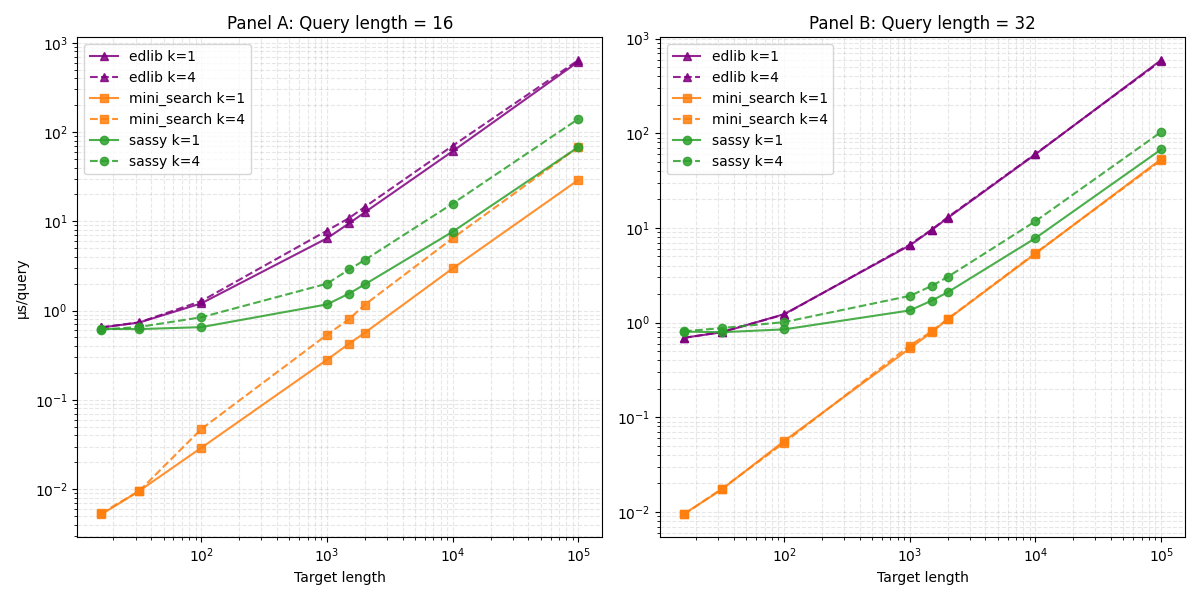
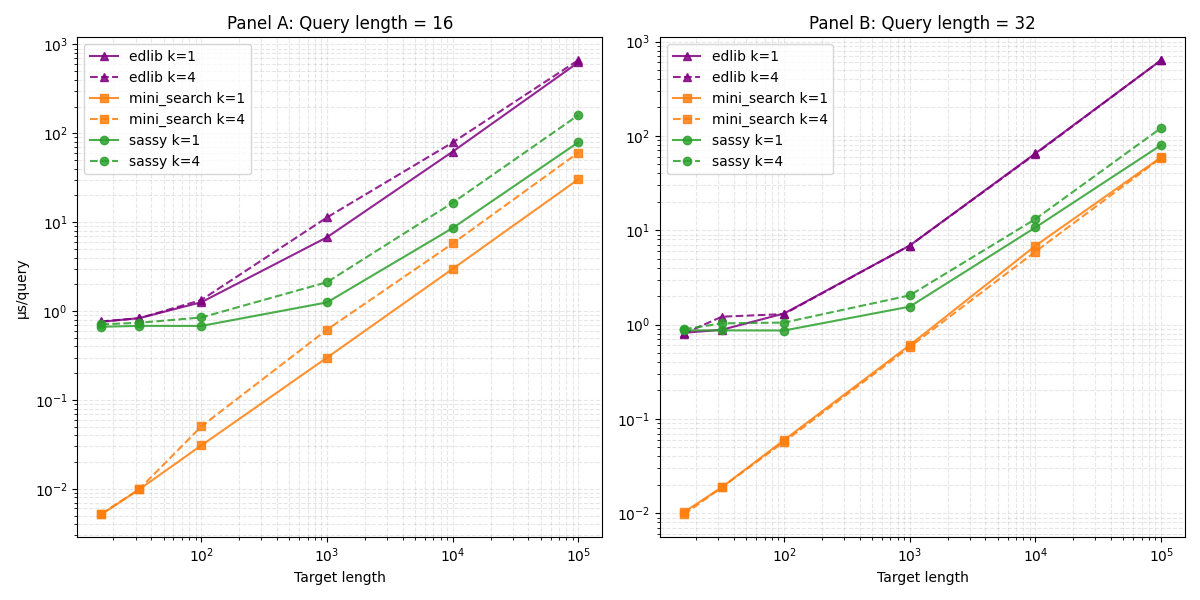
micro stuff ~20% gain

diff --git a/src/search.rs b/src/search.rs
@@ -1,7 +1,21 @@
+use crate::backend::SimdBackend;
 use crate::iupac::get_encoded;
 use crate::tqueries::TQueries;
-use crate::{backend::SimdBackend, tqueries};
 use pa_types::{Cigar, CigarOp, Cost};
+
+#[cfg(target_arch = "x86_64")]
+use std::arch::x86_64::_mm_prefetch;
+
+/// Prefetch hint for temporal data (keep in cache)
+#[cfg(target_arch = "x86_64")]
+#[inline(always)]
+unsafe fn prefetch_read<T>(ptr: *const T) {
+    _mm_prefetch(ptr as *const i8, std::arch::x86_64::_MM_HINT_T0);
+}
+
+#[cfg(not(target_arch = "x86_64"))]
+#[inline(always)]
+unsafe fn prefetch_read<T>(_ptr: *const T) {}
 
 #[derive(Clone, Copy, Default)]
 struct BlockState<S: Copy> {
@@ -134,11 +148,10 @@ impl<B: SimdBackend> Searcher<B> {
         vn: B::Simd,
         cost: B::Simd,
         eq: B::Simd,
+        all_ones: B::Simd,
         last_bit_shift: u32,
         last_bit_mask: B::Simd,
     ) -> (B::Simd, B::Simd, B::Simd) {
-        let all_ones = B::splat_all_ones();
-
         let eq_and_pv = eq & vp;
         let xh = ((eq_and_pv + vp) ^ vp) | eq;
         let mh = vp & xh;
@@ -174,52 +187,62 @@ impl<B: SimdBackend> Searcher<B> {
         self.reset_state(t_queries, alpha_pattern);
         self.search_hits.clear();
 
-        for pos_vec in self.positions.iter_mut().take(t_queries.n_queries) {
-            pos_vec.clear();
-        }
-
         let k_simd = B::splat_scalar(B::scalar_from_i64(k as i64));
         let last_bit_shift = (t_queries.query_length - 1) as u32;
         let last_bit_mask = B::splat_one() << last_bit_shift;
+        let all_ones = B::splat_all_ones();
 
         let peqs_ptr: *const <B as SimdBackend>::Simd = t_queries.peqs.as_ptr();
         let blocks_ptr = self.blocks.as_mut_ptr();
-        let zero_scalar = B::scalar_from_i64(0);
+        let n_queries = t_queries.n_queries;
 
-        for (idx, &c) in text.iter().enumerate() {
+        let text_ptr = text.as_ptr();
+        let text_len = text.len();
+
+        for idx in 0..text_len {
+            let c = unsafe { *text_ptr.add(idx) };
             let encoded = get_encoded(c) as usize;
-            let peq_block_start_index = encoded * num_blocks;
+            let peq_base = unsafe { peqs_ptr.add(encoded * num_blocks) };
+
+            // Prefetch next character's peq
+            if idx + 1 < text_len {
+                let next_c = unsafe { *text_ptr.add(idx + 1) };
+                let next_encoded = get_encoded(next_c) as usize;
+                unsafe { prefetch_read(peqs_ptr.add(next_encoded * num_blocks)) };
+            }
 
             for block_i in 0..num_blocks {
                 unsafe {
-                    let eq = *peqs_ptr.add(peq_block_start_index + block_i);
+                    let eq = *peq_base.add(block_i);
                     let block = &mut *blocks_ptr.add(block_i);
                     let (vp_out, vn_out, cost_out) = Self::myers_step(
                         block.vp,
                         block.vn,
                         block.cost,
                         eq,
+                        all_ones,
                         last_bit_shift,
                         last_bit_mask,
                     );
                     block.vp = vp_out;
                     block.vn = vn_out;
                     block.cost = cost_out;
-                    let gt_mask = B::simd_gt(cost_out, k_simd);
-                    if gt_mask != B::splat_all_ones() {
-                        let mask_arr = B::to_array(gt_mask);
-                        let mask_slice = mask_arr.as_ref();
 
-                        for (lane_idx, &val) in mask_slice.iter().enumerate() {
-                            if val == zero_scalar {
-                                let query_idx = block_i * B::LANES + lane_idx;
-                                if query_idx < t_queries.n_queries {
-                                    self.search_hits.push(SearchHit {
-                                        query_idx,
-                                        end_position: idx,
-                                    });
-                                }
+                    let gt_mask = B::simd_gt(cost_out, k_simd);
+                    if gt_mask != all_ones {
+                        let hit_bits = B::lanes_with_zero(gt_mask);
+                        let base_query_idx = block_i * B::LANES;
+                        let mut bits = hit_bits;
+                        while bits != 0 {
+                            let lane_idx = bits.trailing_zeros() as usize;
+                            let query_idx = base_query_idx + lane_idx;
+                            if query_idx < n_queries {
+                                self.search_hits.push(SearchHit {
+                                    query_idx,
+                                    end_position: idx,
+                                });
                             }
+                            bits &= bits - 1;
                         }
                     }
                 }
@@ -228,7 +251,7 @@ impl<B: SimdBackend> Searcher<B> {
 
         // Handle suffix overhang
         if self.alpha_pattern != !0 {
-            let eq = B::splat_all_ones();
+            let eq = all_ones;
             let steps_needed = t_queries.query_length;
             let blocks_ptr = self.blocks.as_mut_ptr();
             let mut current_text_pos = text.len();
@@ -242,6 +265,7 @@ impl<B: SimdBackend> Searcher<B> {
                             block.vn,
                             block.cost,
                             eq,
+                            all_ones,
                             last_bit_shift,
                             last_bit_mask,
                         );
@@ -305,8 +329,10 @@ impl<B: SimdBackend> Searcher<B> {
         let num_blocks = 1; // Just one block now which we check in assert
         self.ensure_capacity(num_blocks, batch_size);
 
+        let expected_steps = t_queries.query_length + k as usize + 2;
         for i in 0..batch_size {
             self.history[i].steps.clear();
+            self.history[i].steps.reserve(expected_steps);
         }
 
         let length_mask = (!0u64) >> (64usize.saturating_sub(t_queries.query_length));
@@ -364,6 +390,7 @@ impl<B: SimdBackend> Searcher<B> {
                     block.vn,
                     block.cost,
                     eq,
+                    all_ones,
                     last_bit_shift,
                     last_bit_mask,
                 );
@@ -397,16 +424,17 @@ impl<B: SimdBackend> Searcher<B> {
         // NOTE: in search we do correct the cost here based on overhang cost, but we don't mutate vn,vp.
         // so in the trace these would show as regular matches we handled that later in `traceback_single`
         if self.alpha_pattern != !0 {
-            let eq = B::splat_all_ones();
+            let eq = all_ones;
             let blocks_ptr = self.blocks.as_mut_ptr();
-            for i in 0..t_queries.query_length {
+            for _i in 0..t_queries.query_length {
                 unsafe {
                     let block = &mut *blocks_ptr;
-                    let (vp_out, vn_out, cost_out) = Self::myers_step(
+                    let (vp_out, vn_out, _cost_out) = Self::myers_step(
                         block.vp,
                         block.vn,
                         block.cost,
                         eq,
+                        all_ones,
                         last_bit_shift,
                         last_bit_mask,
                     );
@@ -630,7 +658,7 @@ mod tests {
     use std::collections::{HashMap, HashSet};
 
     #[cfg(test)]
-    type TestBackend = crate::backend::U16; // change for tests on u16, u32, and u64 backends
+    type TestBackend = crate::backend::U64; // change for tests on u16, u32, and u64 backends
 
     #[test]
     fn test_search_with_hits_simple() {

diff --git a/src/backend.rs b/src/backend.rs
@@ -3,6 +3,9 @@ use std::ops::{Add, BitAnd, BitAndAssign, BitOr, BitOrAssign, BitXor, Shl, Shr, 
 
 use wide::{u16x16, u32x8, u64x4, u8x32, CmpEq};
 
+#[cfg(target_arch = "x86_64")]
+use std::arch::x86_64::*;
+
 // So much boilerplate still, cant we generalize over the wide type or something
 
 pub trait SimdBackend: Copy + 'static + Send + Sync + Default + std::fmt::Debug {
@@ -52,6 +55,9 @@ pub trait SimdBackend: Copy + 'static + Send + Sync + Default + std::fmt::Debug 
     fn splat_zero() -> Self::Simd;
     fn splat_one() -> Self::Simd;
     fn splat_scalar(value: Self::Scalar) -> Self::Simd;
+
+    // Check if any lane is zero (hit detected)
+    fn lanes_with_zero(vec: Self::Simd) -> u32;
 }
 
 #[derive(Clone, Copy, Debug, Default)]
@@ -127,6 +133,30 @@ impl SimdBackend for I32x8Backend {
             let b: i32x8 = transmute(rhs);
             let mask = i32x8::splat((1u32 << 31) as i32);
             transmute(CmpGt::simd_gt(a ^ mask, b ^ mask))
+        }
+    }
+
+    #[inline(always)]
+    fn lanes_with_zero(vec: Self::Simd) -> u32 {
+        #[cfg(target_arch = "x86_64")]
+        unsafe {
+            use std::mem::transmute;
+            let v: __m256i = transmute(vec);
+            let zero = _mm256_setzero_si256();
+            let eq = _mm256_cmpeq_epi32(v, zero);
+            // movemask_ps returns bit i set if float i's sign bit is set
+            _mm256_movemask_ps(transmute(eq)) as u32
+        }
+        #[cfg(not(target_arch = "x86_64"))]
+        {
+            let arr = Self::to_array(vec);
+            let mut result = 0u32;
+            for (i, &v) in arr.as_ref().iter().enumerate() {
+                if v == 0 {
+                    result |= 1 << i;
+                }
+            }
+            result
         }
     }
 }
@@ -206,6 +236,30 @@ impl SimdBackend for I64x4Backend {
             transmute(CmpGt::simd_gt(a ^ mask, b ^ mask))
         }
     }
+
+    #[inline(always)]
+    fn lanes_with_zero(vec: Self::Simd) -> u32 {
+        #[cfg(target_arch = "x86_64")]
+        unsafe {
+            use std::mem::transmute;
+            let v: __m256i = transmute(vec);
+            let zero = _mm256_setzero_si256();
+            let eq = _mm256_cmpeq_epi64(v, zero);
+            // For 64-bit lanes, use movemask_pd (treats as 4 doubles)
+            _mm256_movemask_pd(transmute(eq)) as u32
+        }
+        #[cfg(not(target_arch = "x86_64"))]
+        {
+            let arr = Self::to_array(vec);
+            let mut result = 0u32;
+            for (i, &v) in arr.as_ref().iter().enumerate() {
+                if v == 0 {
+                    result |= 1 << i;
+                }
+            }
+            result
+        }
+    }
 }
 
 #[derive(Clone, Copy, Debug, Default)]
@@ -279,6 +333,46 @@ impl SimdBackend for I16x16Backend {
             let b: i16x16 = transmute(rhs);
             let mask = i16x16::splat((1u32 << 15) as i16); // 1u32 << 15 is 32768
             transmute(CmpGt::simd_gt(a ^ mask, b ^ mask))
+        }
+    }
+
+    #[inline(always)]
+    fn lanes_with_zero(vec: Self::Simd) -> u32 {
+        #[cfg(target_arch = "x86_64")]
+        unsafe {
+            use std::mem::transmute;
+            let v: __m256i = transmute(vec);
+            let zero = _mm256_setzero_si256();
+            let eq = _mm256_cmpeq_epi16(v, zero);
+            let mask = _mm256_movemask_epi8(eq) as u32;
+            // Pack: bits 0,2,4,...,30 -> bits 0,1,2,...,15
+            // Use pext if available, otherwise bit manipulation
+            #[cfg(target_feature = "bmi2")]
+            {
+                std::arch::x86_64::_pext_u32(mask, 0x55555555)
+            }
+            #[cfg(not(target_feature = "bmi2"))]
+            {
+                // Manual bit extraction: every other bit
+                let mut result = 0u32;
+                for i in 0..16 {
+                    if (mask & (1 << (i * 2))) != 0 {
+                        result |= 1 << i;
+                    }
+                }
+                result
+            }
+        }
+        #[cfg(not(target_arch = "x86_64"))]
+        {
+            let arr = Self::to_array(vec);
+            let mut result = 0u32;
+            for (i, &v) in arr.as_ref().iter().enumerate() {
+                if v == 0 {
+                    result |= 1 << i;
+                }
+            }
+            result
         }
     }
 }

diff --git a/benches/sassy.rs b/benches/sassy.rs
@@ -48,10 +48,10 @@ fn run() -> Result<(), Box<dyn std::error::Error>> {
     let mut rng = StdRng::seed_from_u64(42);
     let mut results = Vec::new();
 
-    let target_lens = vec![16, 32, 100, 1000, 1500, 2000, 10_000, 100_000];
+    let target_lens = vec![16, 32, 100, 1000, 10_000, 100_000];
     let query_lens = vec![16, 32];
     let ks = vec![1, 4];
-    let iterations = 1000;
+    let iterations = 100;
     let n_queries = 96;
 
     for target_len in &target_lens {
@@ -222,7 +222,7 @@ fn run_mini_bench<B: SimdBackend>(
     let mini_search_res = searcher.trace_all_hits(&t_queries, target, k as u32);
     let mini_search_matches: usize = mini_search_res.len();
 
-\    let mini_search_time = time_iterations(iterations, || {
+    let mini_search_time = time_iterations(iterations, || {
         let m = searcher.trace_all_hits(&t_queries, target, k as u32);
         black_box(m);
     });
